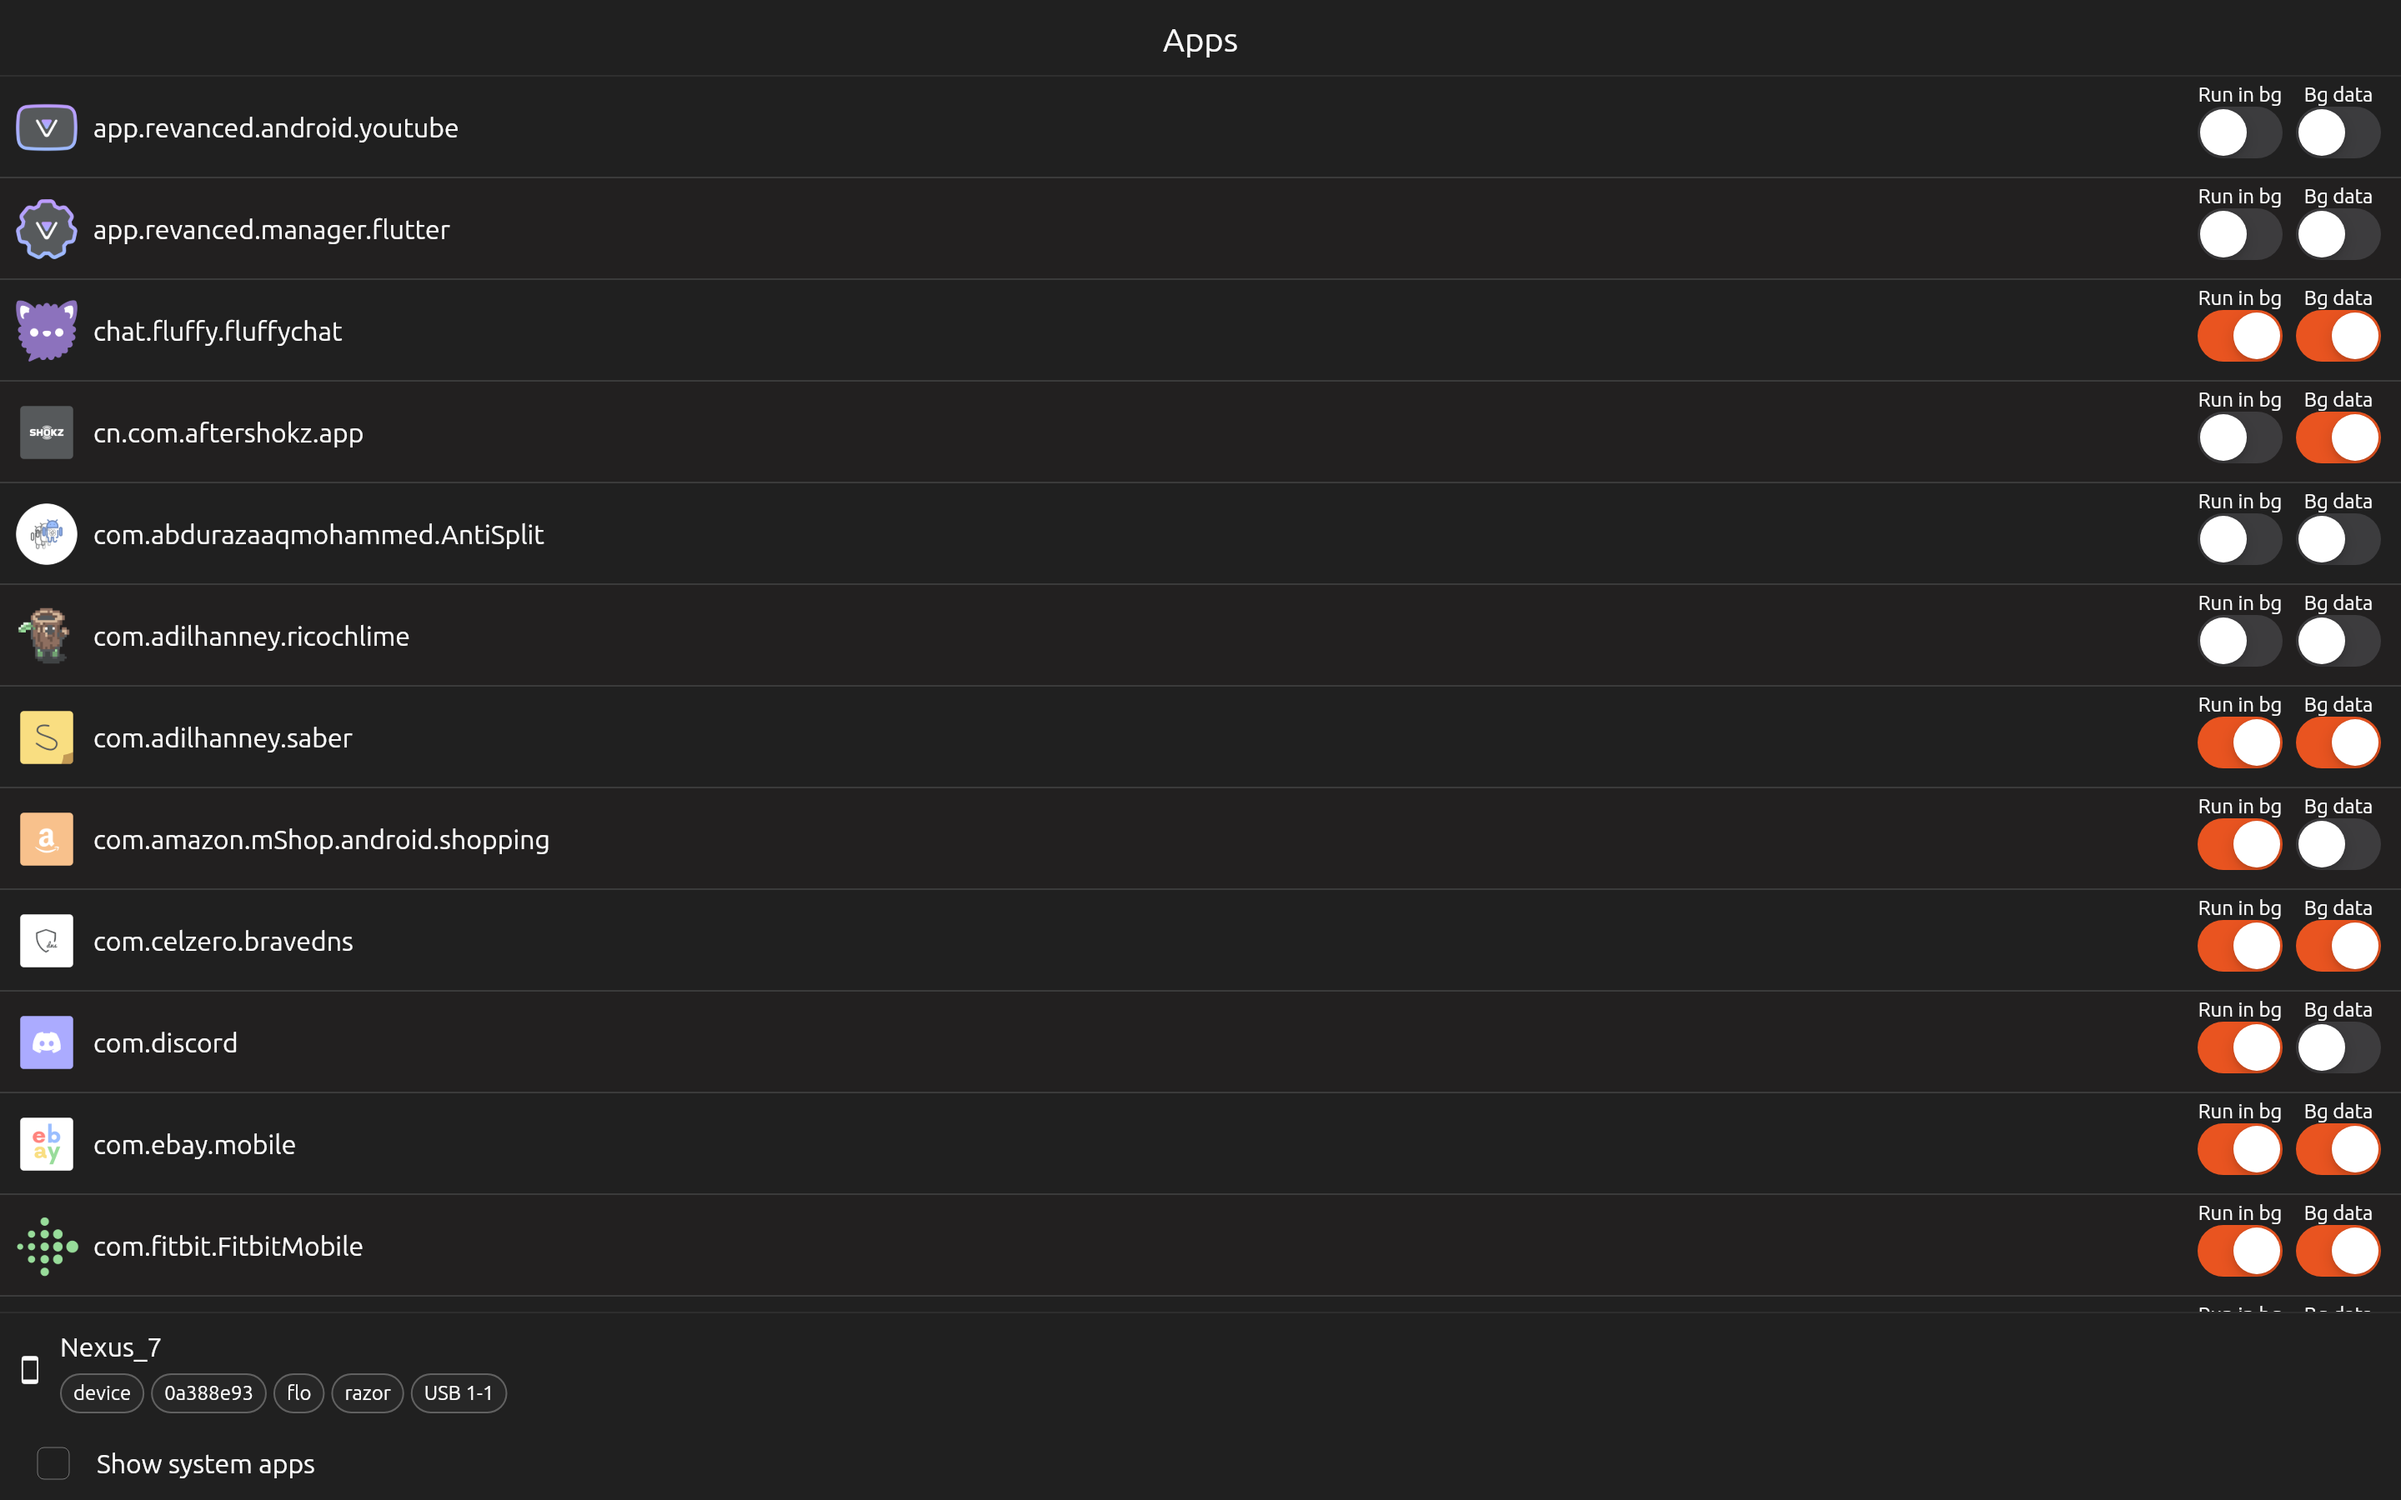
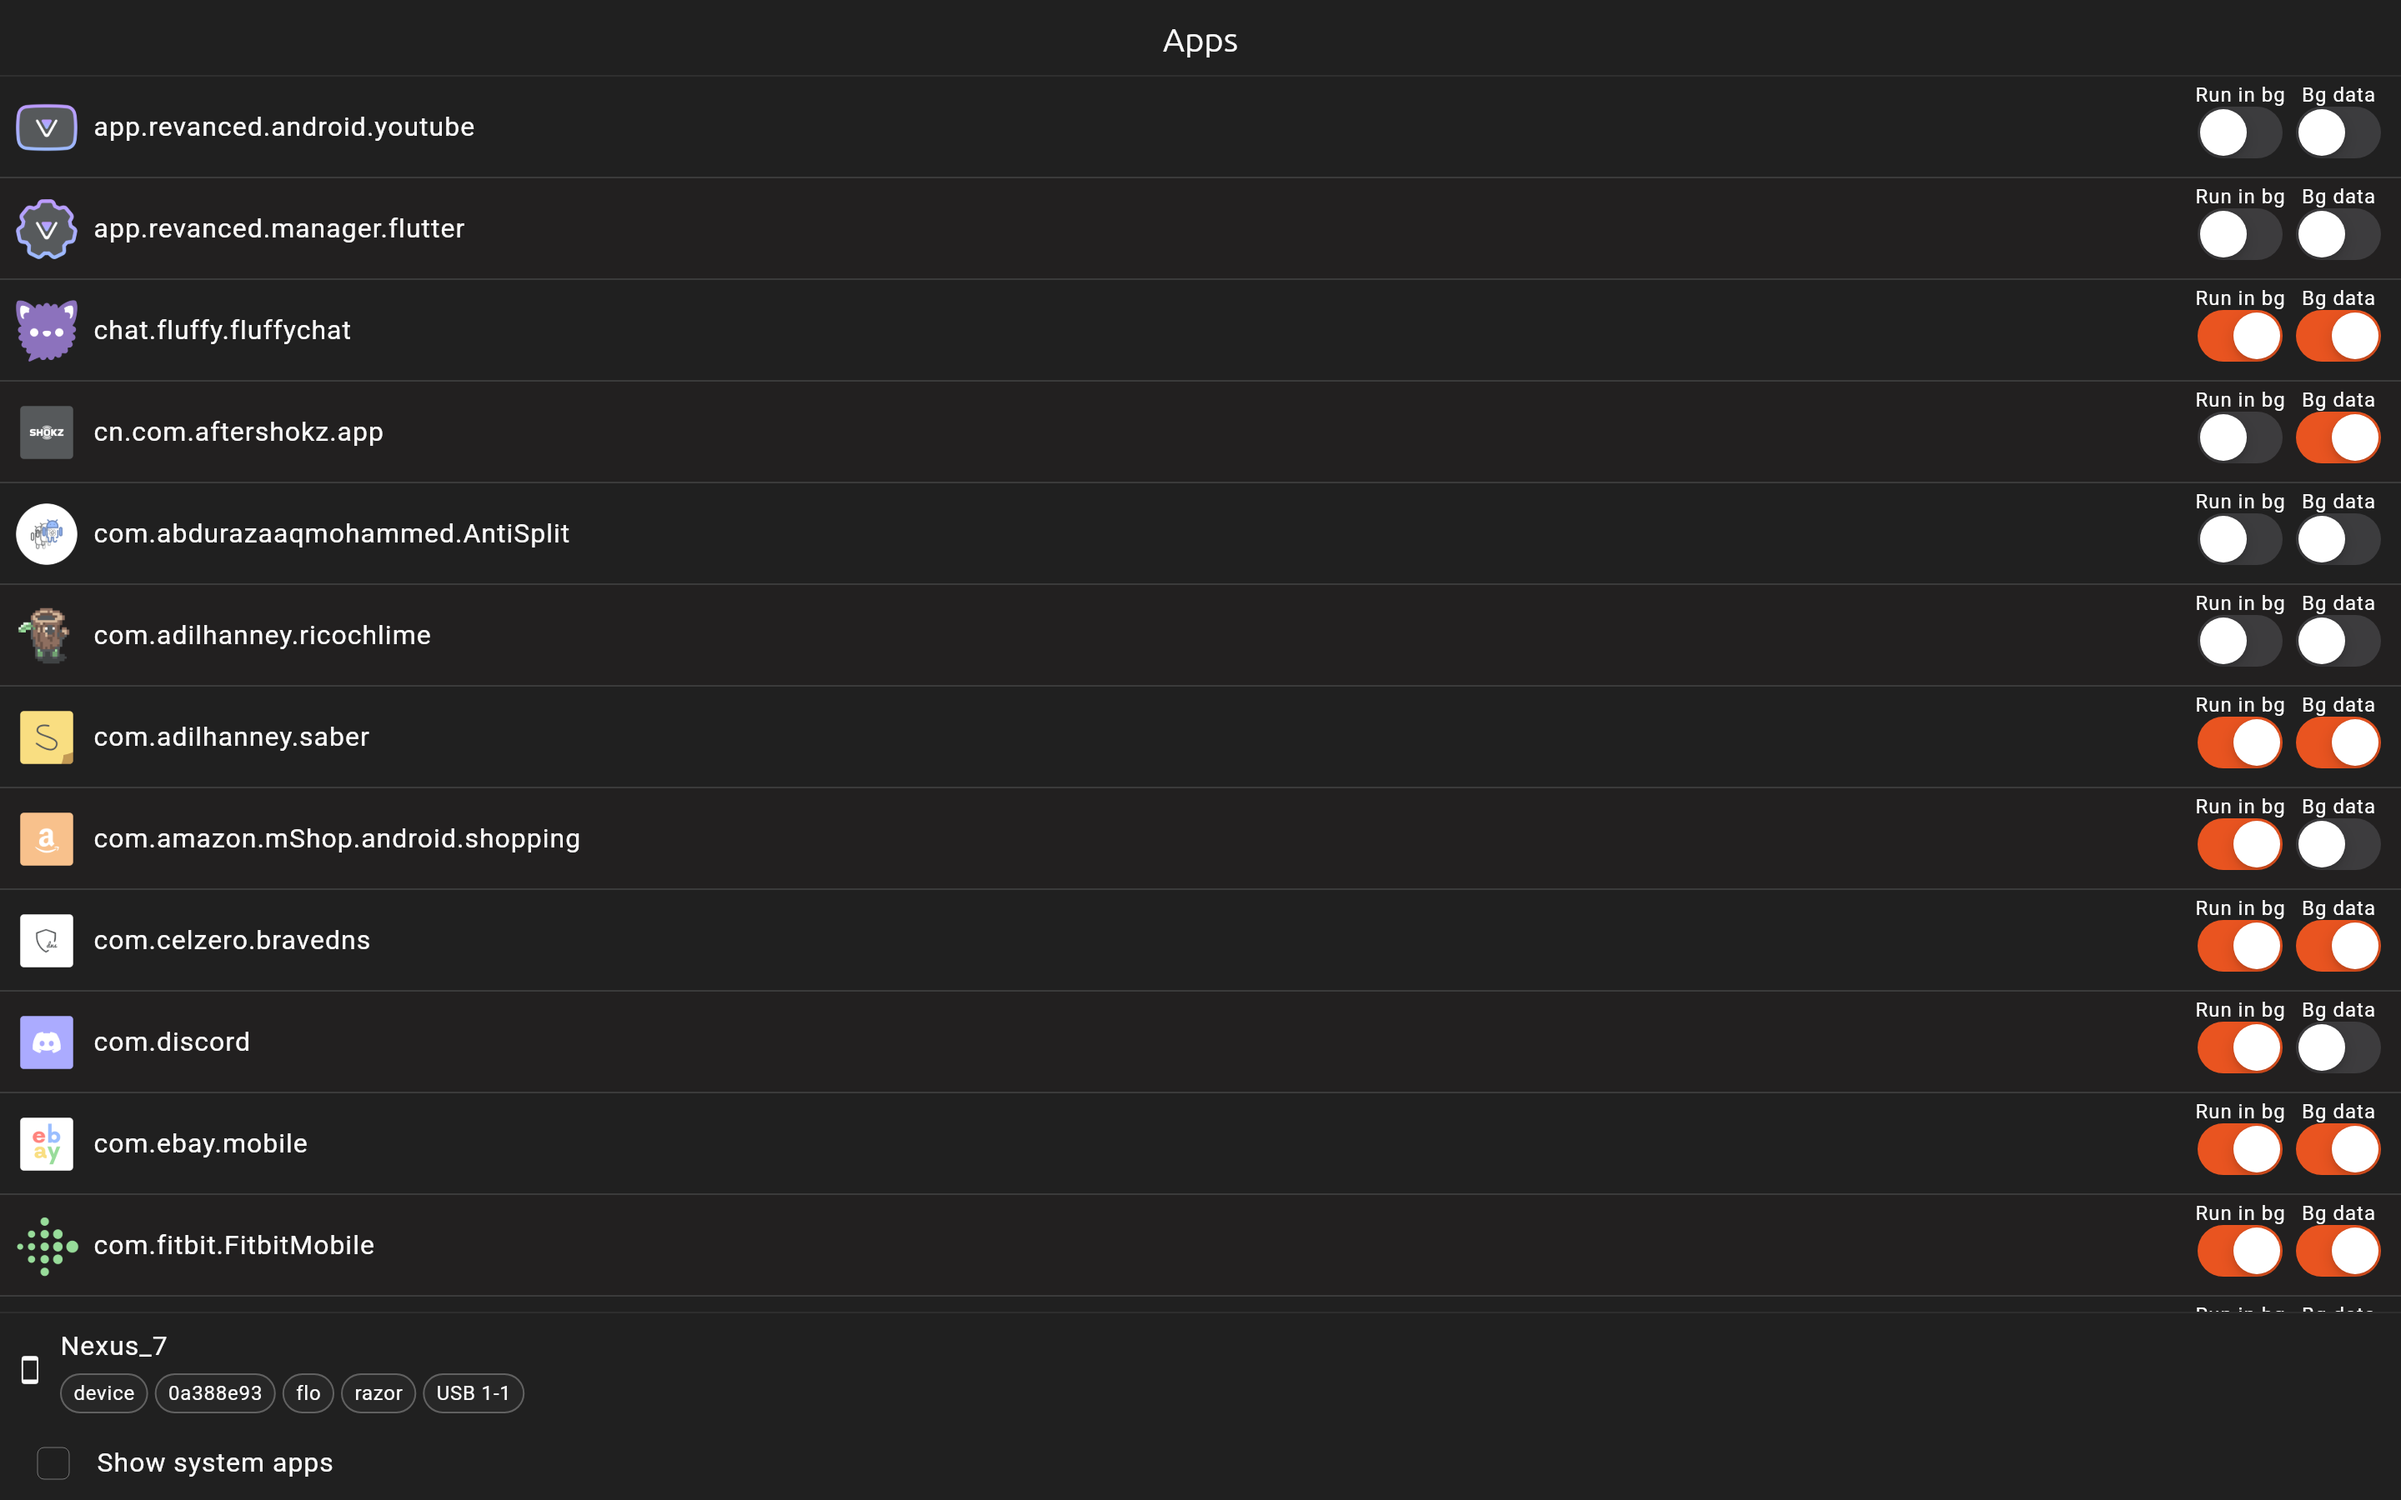
tweak: use macos fonts on macos

diff --git a/lib/main.dart b/lib/main.dart
@@ -43,7 +43,66 @@ class MyApp extends StatelessWidget {
   }
 
   @visibleForTesting
-  static ThemeData createTheme(ThemeData base) => base.copyWith(
-    cupertinoOverrideTheme: NoDefaultCupertinoThemeData(applyThemeToAll: true),
-  );
+  static ThemeData createTheme(ThemeData base) {
+    if (base.platform != .iOS && base.platform != .macOS) return base;
+
+    final typography = Typography.material2021(
+      platform: base.platform,
+      colorScheme: base.colorScheme,
+    );
+    return base.copyWith(
+      cupertinoOverrideTheme: NoDefaultCupertinoThemeData(
+        applyThemeToAll: true,
+      ),
+      textTheme: base.textTheme.copyWithFontFrom(
+        base.brightness == .light ? typography.black : typography.white,
+      ),
+    );
+  }
+}
+
+extension on TextTheme {
+  TextTheme copyWithFontFrom(TextTheme other) {
+    return TextTheme(
+      displayLarge: displayLarge?.copyWithFontFrom(other.displayLarge),
+      displayMedium: displayMedium?.copyWithFontFrom(other.displayMedium),
+      displaySmall: displaySmall?.copyWithFontFrom(other.displaySmall),
+      headlineLarge: headlineLarge?.copyWithFontFrom(other.headlineLarge),
+      headlineMedium: headlineMedium?.copyWithFontFrom(other.headlineMedium),
+      headlineSmall: headlineSmall?.copyWithFontFrom(other.headlineSmall),
+      titleLarge: titleLarge?.copyWithFontFrom(other.titleLarge),
+      titleMedium: titleMedium?.copyWithFontFrom(other.titleMedium),
+      titleSmall: titleSmall?.copyWithFontFrom(other.titleSmall),
+      bodyLarge: bodyLarge?.copyWithFontFrom(other.bodyLarge),
+      bodyMedium: bodyMedium?.copyWithFontFrom(other.bodyMedium),
+      bodySmall: bodySmall?.copyWithFontFrom(other.bodySmall),
+      labelLarge: labelLarge?.copyWithFontFrom(other.labelLarge),
+      labelMedium: labelMedium?.copyWithFontFrom(other.labelMedium),
+      labelSmall: labelSmall?.copyWithFontFrom(other.labelSmall),
+    );
+  }
+}
+
+extension on TextStyle {
+  /// [TextStyle.copyWith] doesn't let us set [TextStyle._package] to null,
+  /// so we need this extension method.
+  TextStyle copyWithFontFrom(TextStyle? other) {
+    return other?.copyWith(
+          inherit: inherit,
+          color: color,
+          backgroundColor: backgroundColor,
+          fontSize: fontSize,
+          fontWeight: fontWeight,
+          fontStyle: fontStyle,
+          textBaseline: textBaseline,
+          locale: locale,
+          foreground: foreground,
+          background: background,
+          shadows: shadows,
+          decorationColor: decorationColor,
+          decorationStyle: decorationStyle,
+          overflow: overflow,
+        ) ??
+        this;
+  }
 }

diff --git a/test/golden_screenshot_test.dart b/test/golden_screenshot_test.dart
@@ -76,7 +76,9 @@ void _screenshot(
           ScreenshotApp.withConditionalTitlebar(
             device: device,
             title: 'NoMoreBackground',
-            theme: MyApp.createTheme(yaruDark),
+            theme: MyApp.createTheme(
+              yaruDark.copyWith(platform: device.platform),
+            ),
             home: home,
           ),
         );
